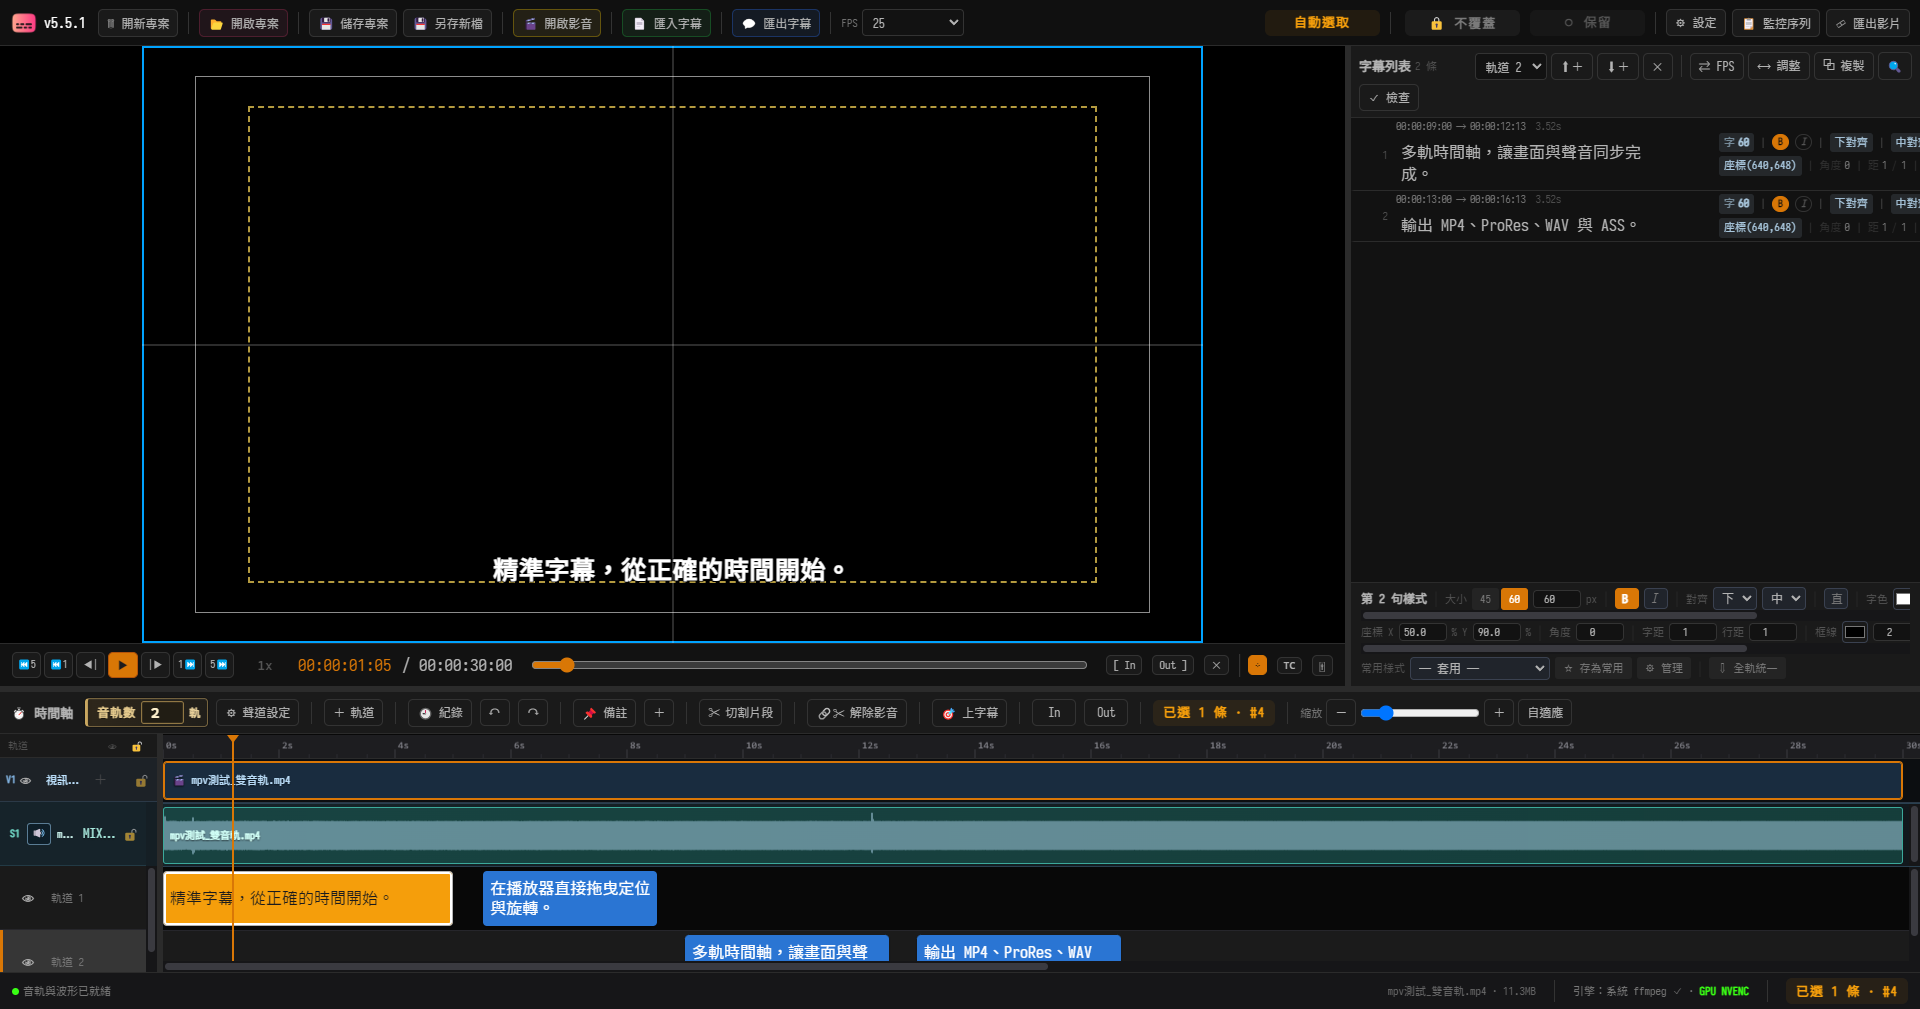
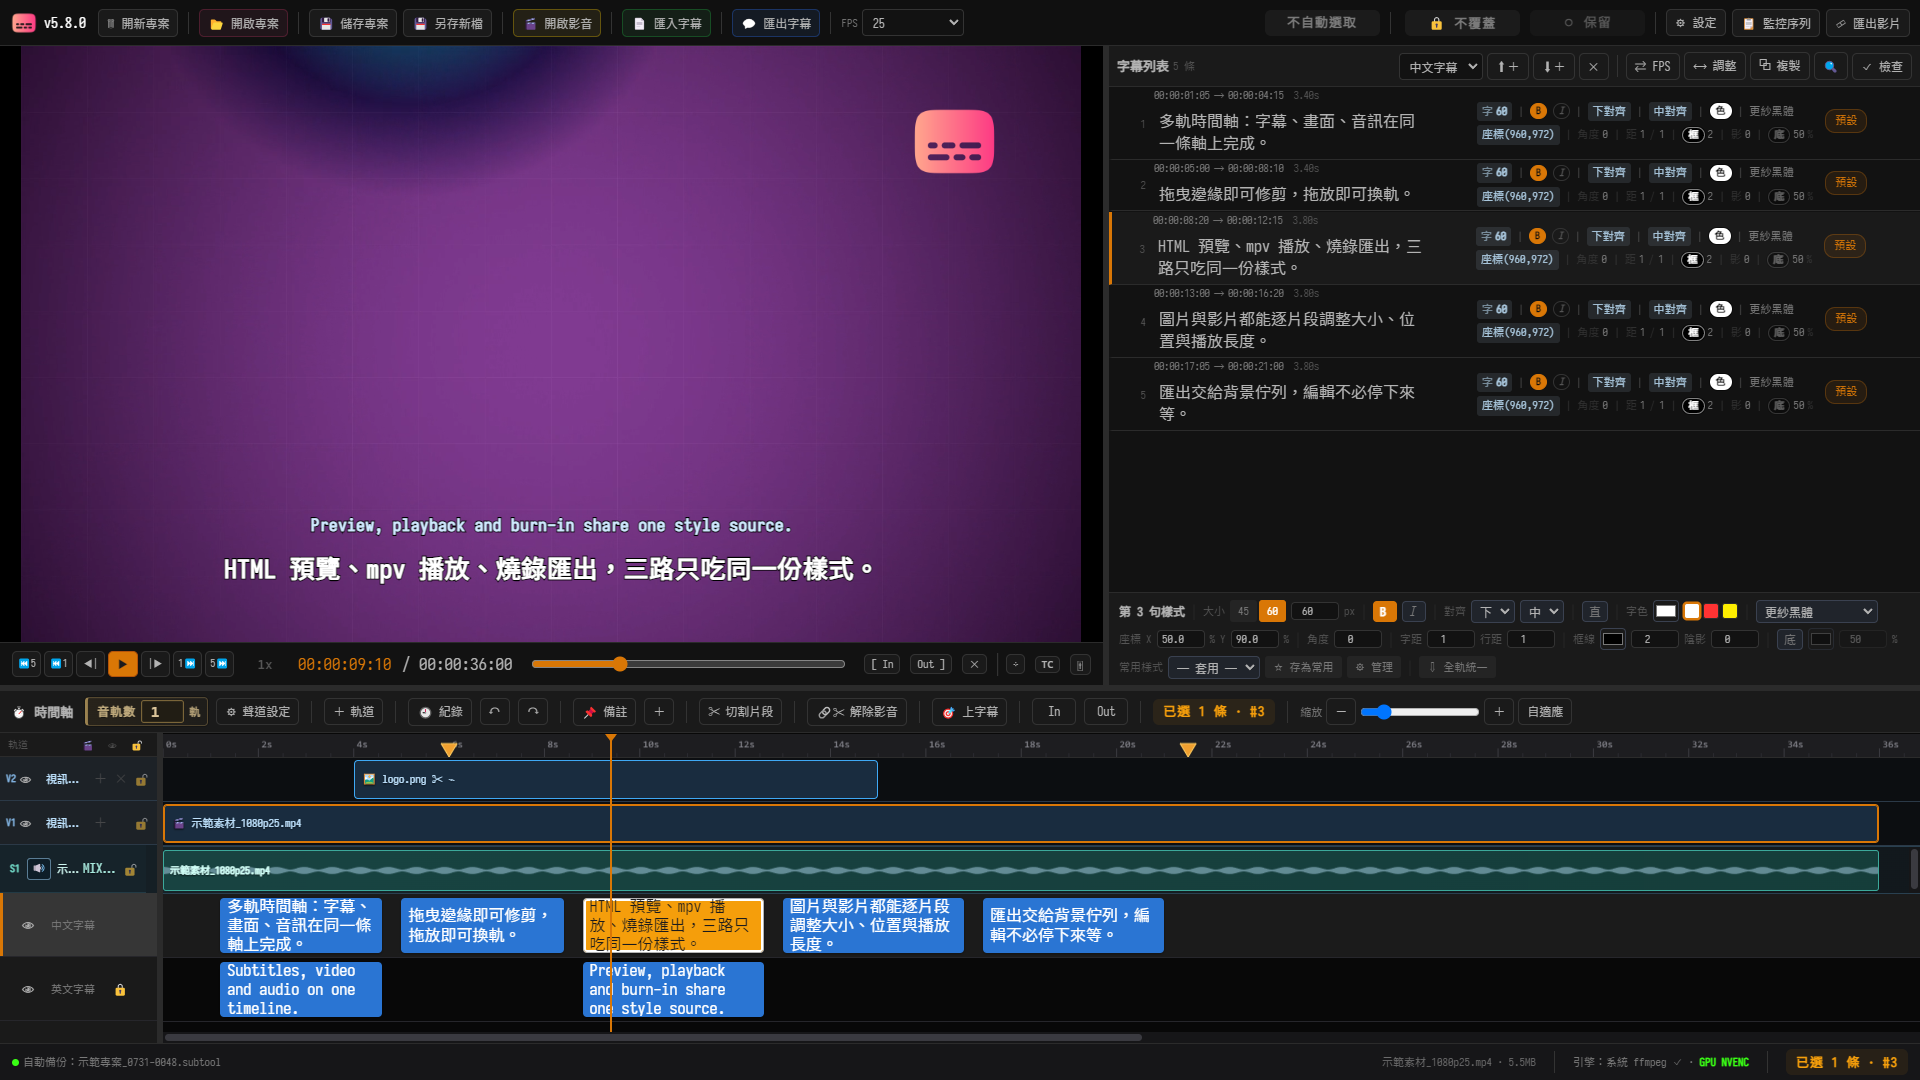
重寫 README：改成圖文並茂，四張截圖全部重拍成 v5.8.0 現況
舊的主視覺是 v5.5.1 拍的，而且預覽區整片全黑（mpv 當時在前景，CDP 只截得到網頁層），
等於 README 第一眼看到的畫面既過期又空白。

截圖怎麼來的：用專案內建的 ffmpeg 產生一段 36 秒示範素材，手工組出一份 .subtool
專案（雙視訊軌＋logo 疊層＋中英雙字幕軌、其中一條鎖定），用 release/win-unpacked
開起來走真實的專案載入路徑。四張都是真的畫面，不是拼的：

- readme-workspace.png     主工作區：預覽有畫面、字幕、疊層、音訊波形，時間軸五條軌
- readme-clip-geometry.png v5.8.0 新的「影片大小與位置」對話框（含符合視窗／取消）
- readme-delivery-list.png 交付清單：MP4／ProRes／WAV 三列，檔名與輸出目錄同列
- readme-export-queue.png  佇列監控：執行中 54% 進度條＋兩筆等待中＋六筆已完成

佇列那張是真的送出九筆轉檔跑出來的（暫停佇列→送出→繼續，才截得到執行中的狀態），
產物約 2.1GB 已刪除。輸出目錄由使用者在原生選擇器選定——那個對話框同時是授權關卡
（main.js 的 grantDeliveryDirectory 只認使用者明示選取），沒有繞過。

內容重整：
- 加上徽章列與四個快速入口
- 能力分成五區，每區配圖或表格，不再是長段落
- 新增一張 mermaid「三路一致」流程圖：substyle.js 的 effStyle() 與 imagegeom.js 的
  imageBoxOnStage() 是唯一來源，HTML 預覽／mpv／FFmpeg 燒錄三條路都只能吃它們
- 版本比較表改成桌面版與網頁版對照，補上 MXF 與 mpv 秒開大檔
- 補上專案結構與「沒有任何模組可以 import app.js」這條架構規則
- 文件索引改成「你想做什麼 → 看哪份」

驗證：14 個本地連結全部存在、code fence 成對、4 張圖片路徑都對得上、
docs/images/ 沒有未被引用的檔案。圖片 URL 的 ?v= 由 2 改為 3，避免 GitHub CDN
繼續餵舊圖。

diff --git a/README.md b/README.md
@@ -1,114 +1,235 @@
 <p align="center">
-  <img src="src/logo.png" width="100" alt="SUB Tool logo">
+  <img src="src/logo.png" width="96" alt="SUB Tool logo">
 </p>
 
 <h1 align="center">SUB Tool</h1>
 
 <p align="center">
   <strong>把字幕、畫面、音訊與交付，放在同一條時間軸完成。</strong><br>
-  為上字幕、剪輯與交付流程打造的高效多軌時間軸工具，提供流暢的網頁版與全能的 Windows 桌面版。
+  Arctime 風格的多軌上字幕工具　·　網頁版隨開隨用，Windows 桌面版吃得下 44GB 的 MXF。
 </p>
 
 <p align="center">
-  <a href="https://github.com/evanwayc-star/SUB_Tool/releases/latest">下載 Windows 桌面版</a>
+  <a href="https://github.com/evanwayc-star/SUB_Tool/releases/latest"><img alt="最新版本" src="https://img.shields.io/github/v/release/evanwayc-star/SUB_Tool?label=%E6%9C%80%E6%96%B0%E7%89%88%E6%9C%AC&color=e8a33d"></a>
+  <img alt="平台" src="https://img.shields.io/badge/%E5%B9%B3%E5%8F%B0-Windows%20%C2%B7%20%E7%B6%B2%E9%A0%81-4c9fd8">
+  <img alt="架構" src="https://img.shields.io/badge/Vite%20%2B%20%E5%8E%9F%E7%94%9F%20ES%20%E6%A8%A1%E7%B5%84-%E7%84%A1%E6%A1%86%E6%9E%B6-6bbf59">
+  <img alt="播放與轉檔" src="https://img.shields.io/badge/mpv%20%C2%B7%20FFmpeg-%E5%85%A7%E5%BB%BA-8e6bd8">
+</p>
+
+<p align="center">
+  <a href="https://github.com/evanwayc-star/SUB_Tool/releases/latest"><b>⬇ 下載桌面版</b></a>
   &nbsp;·&nbsp;
-  <a href="docs/使用說明.md">閱讀使用說明</a>
+  <a href="docs/使用說明.md">📖 使用說明</a>
   &nbsp;·&nbsp;
-  <a href="docs/版本變更紀錄.md">查看版本變更</a>
+  <a href="docs/版本變更紀錄.md">🗒 版本變更</a>
+  &nbsp;·&nbsp;
+  <a href="AGENTS.md">🤖 給 AI 助理</a>
 </p>
 
 ---
 
-## 🚀 核心特色亮點 (Features)
+## 這是什麼
 
-SUB Tool 致力於將繁瑣的字幕與影音交付工作，整合成最直覺、最快速的工作流。
+一個把**上字幕**和**剪輯交付**放在同一條時間軸上的工具。你可以在這裡切片段、疊圖層、
+配聲道、逐句調字幕樣式，最後一次送出多種交付格式，轉檔在背景跑，你繼續編輯。
 
-### 1. 專業且細膩的字幕控制
-每一句字幕都能擁有獨立的生命力。您可以針對單一字幕調整字型、大小、對齊、外框、陰影、直書排版等設定。
-- **所見即所得**：在預覽畫面上直接點擊並拖曳字幕，即時調整位置。
-- **格式支援齊全**：完美支援 SRT、ASS/SSA、純文字、xlsx，甚至 Adobe Encore 時碼的匯入與匯出。
-- **智慧合併匯出**：最新版本支援勾選多條軌道，一鍵合併輸出成單一 SRT/ASS 檔案，大幅提升交付效率。
+![SUB Tool 主工作區：播放器、字幕列表、樣式面板與多軌時間軸](docs/images/readme-workspace.png?v=3)
 
-![SUB Tool 主工作區：播放器、字幕列表、樣式面板與多軌時間軸](docs/images/readme-workspace.png?v=2)
-> **強大的主工作區**：整合了即時播放器、高效率的字幕列表、詳細的樣式面板，以及靈活的多軌時間軸。
-
-### 2. 多軌時間軸：不只是字幕，更是完整的影音畫布
-無論是複雜的多聲道專案，還是需要疊加多層影像，SUB Tool 都能輕鬆應對。
-- **視訊與音訊獨立編輯**：支援無限增加視訊與字幕軌道。拖曳邊緣即可修剪，拖放即可變更軌道。
-- **全新視訊軌收合功能**：當軌道數量增加時，只需點擊左側 🎬 按鈕，即可一鍵收合視訊軌區塊，將寶貴的畫面空間保留給最重要的音訊與字幕編輯。
-- **動態效果與轉場**：支援透明疊層、子母畫面、圖片插入，更內建淡入淡出與軌間交叉溶接效果。
-
-### 3. 為專業交付而生的高階音訊處理
-- **多聲道路由 (Audio Routing)**：內建專業的音軌配線矩陣（Bus），輕鬆設定 Mono、Stereo 或是 5.1 聲道的輸出對應。
-- **原生畫質交付**：輸出時一律讀取母素材進行無損解碼與重新編碼，絕不使用降級的 Proxy 或快取。
-
-![SUB Tool 匯出佇列監控：工作狀態、輸出時長、預估時間與完成時間](docs/images/readme-export-queue.png?v=2)
-> **背景佇列監控**：所有匯出工作都在背景由 FFmpeg 處理。您可以隨時監控進度、預估剩餘時間、調整工作優先順序（支援拖曳排序），完全不中斷當前的編輯工作。
+<p align="center"><sub>
+主工作區。上方是即時預覽（字幕直接畫在畫面上，可拖曳定位），右側是字幕列表與逐句樣式面板，
+下方是多軌時間軸：<b>V2</b> 疊層圖片、<b>V1</b> 主影片、<b>S1</b> 音訊波形，再往下是兩條字幕軌
+（第二條帶 🔒 表示已鎖定）。
+</sub></p>
 
 ---
 
-## 💻 選擇適合您的版本
+## ✨ 主要能力
 
-| 功能與能力 | Windows 桌面版（推薦） | 網頁版 |
+### 🎬 多軌時間軸：不只是字幕，是完整的影音畫布
+
+| 能力 | 說明 |
+| :--- | :--- |
+| **無限視訊／字幕軌** | 拖曳邊緣修剪，拖放換軌；視訊軌可一鍵收合，把畫面留給字幕 |
+| **疊層與子母畫面** | 透明疊層、PiP、插入圖片，逐片段獨立控制大小與位置 |
+| **轉場** | 內建淡入淡出，相鄰片段可交叉溶接 |
+| **影音合一軌** | 區塊內直接顯示波形，列頭就是混音器 |
+
+### 📐 圖片與影片都能逐片段調整（v5.8.0）
+
+右鍵任何一個圖片或影片片段，就能改它的**大小、位置**與**播放長度**——
+不影響同軌其他片段，也不動它的起點。
+
+![影片大小與位置對話框：大小、水平位置、垂直位置，以及符合視窗／重設／取消／套用](docs/images/readme-clip-geometry.png?v=3)
+
+<p align="center"><sub>
+「符合視窗」會維持目前的中心位置，等比例放大到上下左右<b>最先碰到</b>的那個邊界為止。
+按「取消」（或 <kbd>Esc</kbd>、點視窗外）會還原成打開對話框前的樣子。
+</sub></p>
+
+### 📝 專業且細膩的字幕控制
+
+- **逐句樣式**：字型、字級、對齊、外框、陰影、直書、旋轉，可以只改選中的那一句。
+- **所見即所得**：在預覽畫面上直接拖曳字幕定位。
+- **格式齊全**：SRT、ASS/SSA、純文字、xlsx，以及 Adobe Encore 時碼，匯入匯出都支援。
+- **合併匯出**：勾選多條軌道，一次併成單一 SRT／ASS。
+- **軌道鎖定真的鎖得住**：鎖定後在上字幕模式按 <kbd>I</kbd>／<kbd>O</kbd> 會被擋下並提示，
+  不會靜悄悄地改到（這是 v5.8.0 修掉的一個坑）。
+
+### 🔊 為交付而生的音訊處理
+
+- **多聲道路由**：內建配線矩陣（Bus），Mono／Stereo／5.1 的輸出對應都在同一個面板決定。
+- **原生畫質交付**：輸出一律回頭讀母素材重新編碼，不會拿預覽用的 Proxy 或快取充數。
+- **音訊三層分離**：素材聲道、專案 bus、匯出聲道是三件獨立的事，不會互相污染。
+
+### 🚚 背景交付佇列
+
+一次列好多筆交付（不同格式、不同解析度、要不要燒時間碼），一次送出。
+
+![匯出交付清單：每列一種交付格式，檔名與輸出目錄同一列](docs/images/readme-delivery-list.png?v=3)
+
+<p align="center"><sub>
+交付清單。同一份時間軸可以同時輸出 MP4、ProRes 與純音訊 WAV，每一列各自決定解析度、
+碼率、聲道配置，以及要不要把時間碼燒進畫面。同目錄內出現重複檔名會當場擋下。
+</sub></p>
+
+送出後轉檔在背景排隊進行，可以隨時看進度與預估剩餘時間、拖曳調整等待中的順序、
+暫停整條佇列——**編輯不必停下來等**。
+
+![SUB Tool 匯出佇列監控：執行中的進度、等待中的工作與已完成紀錄](docs/images/readme-export-queue.png?v=3)
+
+> 關掉軟體時如果還有工作在轉，不會默默中斷，會先問你（v5.7.0）。
+> 已完成的紀錄跨重啟保留。
+
+---
+
+## 🧭 一份樣式，三個地方長得一樣
+
+這是整個專案最核心的一條規矩：**HTML 預覽、mpv 播放、燒錄匯出**這三條路，
+只准吃同一份樣式計算結果。任何一條自己算，畫面看起來會正常，匯出卻是錯的。
+
+```mermaid
+flowchart LR
+  S["substyle.js<br/>effStyle()<br/>唯一樣式來源"]
+  G["imagegeom.js<br/>imageBoxOnStage()<br/>唯一幾何公式"]
+
+  S --> A["HTML 預覽<br/>編輯時看到的"]
+  S --> B["mpv libass<br/>桌面版播放"]
+  S --> C["FFmpeg 燒錄<br/>最後交付的"]
+
+  G --> A
+  G --> C
+
+  A -. 必須一致 .-> B
+  B -. 必須一致 .-> C
+
+  style S fill:#e8a33d,stroke:#a5701c,color:#1a1a1a
+  style G fill:#6bbf59,stroke:#3f7a33,color:#1a1a1a
+```
+
+> v5.8.0 就是靠三路逐像素比對，才抓到一個長期存在的落差：素材比例與專案不同、
+> 且該軌是 PiP 時，預覽與匯出實測差 **120px**。細節見
+> [`docs/技術架構說明.md`](docs/技術架構說明.md) §0。
+
+---
+
+## 💻 選哪個版本
+
+| | 🖥 **Windows 桌面版**（推薦） | 🌐 **網頁版** |
 | :--- | :--- | :--- |
-| **適用情境** | 日常剪輯、高強度交付、讀寫 `.subtool` 專案檔 | 輕量快速預覽、跨平台從原始碼執行 |
-| **媒體支援** | MP4, MOV, MXF, MKV, AVI | MP4, MOV (H.264), MP3, WAV |
-| **音訊能力** | 完美支援多音軌素材、多聲道輸出 | 基本音訊播放 |
-| **播放核心** | 整合原生 `mpv` 播放器，秒開大檔不卡頓 | 依賴瀏覽器 HTML5 播放能力 |
+| **適合** | 日常剪輯、高強度交付、`.subtool` 專案檔 | 快速預覽、跨平台、從原始碼跑 |
+| **影片格式** | MP4 · MOV · **MXF** · MKV · AVI | MP4 · MOV (H.264) |
+| **音訊** | 多音軌素材、多聲道輸出 | 基本播放 |
+| **播放核心** | 內建 `mpv`，44GB 大檔秒開 | 瀏覽器 HTML5 |
+| **轉檔** | 內建 `FFmpeg`，背景佇列 | 瀏覽器端，能力有限 |
 
 ---
 
-## ⚡ 快速開始 (Quick Start)
+## ⚡ 快速開始
 
-### 使用 Windows 桌面版 (一般使用者)
-1. 前往 [Releases 頁面](https://github.com/evanwayc-star/SUB_Tool/releases/latest) 下載最新版的 `SUB Tool Setup.exe` 並安裝。
-2. 開啟應用程式，拖曳您的影片與字幕檔進入畫面即可開始編輯！
-3. 若您有已儲存的 `.subtool` 專案，雙擊檔案即可秒速還原所有軌道與設定。
-4. 第一次使用？建議從 [`docs/使用說明.md`](docs/使用說明.md) 開始閱讀。
+### 一般使用者（Windows）
+
+1. 到 [**Releases**](https://github.com/evanwayc-star/SUB_Tool/releases/latest) 下載
+   `SUB Tool Setup X.Y.Z.exe` 並安裝。
+2. 開啟後把影片與字幕檔**直接拖進畫面**。
+3. 已存過的 `.subtool` 專案檔**雙擊就能還原**所有軌道與設定。
+4. 第一次用，建議先翻一下 [`docs/使用說明.md`](docs/使用說明.md)。
 
 <details>
-<summary><b>從原始碼執行 (開發者)</b></summary>
+<summary><b>👩💻 從原始碼執行（開發者）</b></summary>
 
-本專案採用 **Vite + 原生 ES 模組（無框架）** 架構，確保最純粹的高效能體驗。
-您需要先安裝 [Node.js](https://nodejs.org) (建議 18+)。
+<br>
 
-1. **安裝依賴套件：**
+需要 [Node.js](https://nodejs.org) 18+。本專案是 **Vite + 原生 ES 模組（無框架）**，
+以 `vite-plugin-singlefile` 打包成單一 `dist/index.html`。
+
+安裝依賴：
+
 ```bash
 npm install
 ```
 
-2. **啟動開發用桌面版：**
+啟動開發用桌面版：
+
 ```bash
 npm run electron
 ```
 
-3. **打包編譯：**
-```bash
-# 僅編譯網頁版前端
-npm run build
+只編譯網頁版前端：
 
-# 編譯前端並打包出可執行的 .exe 安裝檔
+```bash
+npm run build
+```
+
+編譯並打包出 `.exe` 安裝檔：
+
+```bash
 npm run dist
 ```
 
-完整的架構規範、驗證與發版流程，請參閱開發者專用的 [`docs/開發與驗證.md`](docs/開發與驗證.md)。
+三道靜態安全網（發版前必須全綠）：
+
+```bash
+npm run lint && npm test && npm run build
+```
+
+完整的環境需求、驗證方法與發版流程見 [`docs/開發與驗證.md`](docs/開發與驗證.md)。
+
 </details>
 
 ---
 
-## 📚 文件入口指南
+## 🗂 專案結構
 
-| 您的需求是？ | 請參閱對應文件 |
+```
+src/            前端 ES 模組（39 支）＋ decode/ 底下 4 支 WebCodecs 相關
+electron/       主行程：ffmpeg / ffprobe / mpv / 檔案 I/O / 路徑白名單
+docs/           說明文件（見下方索引）
+tests/          vitest 單元測試（純函式與資料完整性）
+font/<資料夾名>/ 自備字型，資料夾名＝UI 顯示名
+```
+
+架構規則：**沒有任何模組可以 `import … from './app.js'`。**
+低階模組要觸發重繪或指令時發事件（`emit()`），由 `app.js` 訂閱。
+
+---
+
+## 📚 文件索引
+
+| 你想做什麼 | 看這份 |
 | :--- | :--- |
-| **我想學習操作與快捷鍵** | [`docs/使用說明.md`](docs/使用說明.md) |
-| **我是開發者，想發佈新版本** | [`docs/開發與驗證.md`](docs/開發與驗證.md) |
-| **我想了解 Electron 與 IPC 架構** | [`docs/Electron_維護手冊.md`](docs/Electron_維護手冊.md) |
-| **我要參與貢獻，想了解核心鐵律** | [`docs/技術架構說明.md`](docs/技術架構說明.md) |
-| **我想了解 FPS 與時間碼的處理邏輯**| [`docs/FPS_時碼一致性.md`](docs/FPS_時碼一致性.md) |
-| **我想看每次改版修復了什麼坑** | [`docs/版本變更紀錄.md`](docs/版本變更紀錄.md) |
-| **我想知道某個詞在這個專案指什麼** | [`CONTEXT.md`](CONTEXT.md)（領域詞彙表） |
-| **我想知道某個設計為什麼是這樣決定的** | [`docs/adr/`](docs/adr/)（架構決策紀錄） |
-| **我想看還在設計中的功能規格** | [`docs/specs/`](docs/specs/) |
+| 學操作與快捷鍵 | [`docs/使用說明.md`](docs/使用說明.md) |
+| 建置、驗證、發版 | [`docs/開發與驗證.md`](docs/開發與驗證.md) |
+| 了解核心鐵律與模組架構 | [`docs/技術架構說明.md`](docs/技術架構說明.md) |
+| 了解 Electron 與 IPC | [`docs/Electron_維護手冊.md`](docs/Electron_維護手冊.md) |
+| 了解 FPS 與時間碼邏輯 | [`docs/FPS_時碼一致性.md`](docs/FPS_時碼一致性.md) |
+| 查每一版修了哪些坑 | [`docs/版本變更紀錄.md`](docs/版本變更紀錄.md) |
+| 查某個詞在這裡指什麼 | [`CONTEXT.md`](CONTEXT.md)（領域詞彙表） |
+| 查某個設計為什麼這樣決定 | [`docs/adr/`](docs/adr/)（架構決策紀錄） |
+| 看還在設計中的規格 | [`docs/specs/`](docs/specs/) |
 
-> 🤖 **給 AI 助理與新加入維護者的重要提醒：**
-> 準備修改任何程式碼之前，請**務必**先閱讀本專案最高指導原則：[`AGENTS.md`](AGENTS.md)。
+---
+
+> 🤖 **給 AI 助理與新加入的維護者**
+>
+> 動手改任何程式碼之前，請**務必**先讀 [`AGENTS.md`](AGENTS.md)——
+> 那是本專案的最高指導原則，每一條規則後面都對應一次真實踩過的坑。
